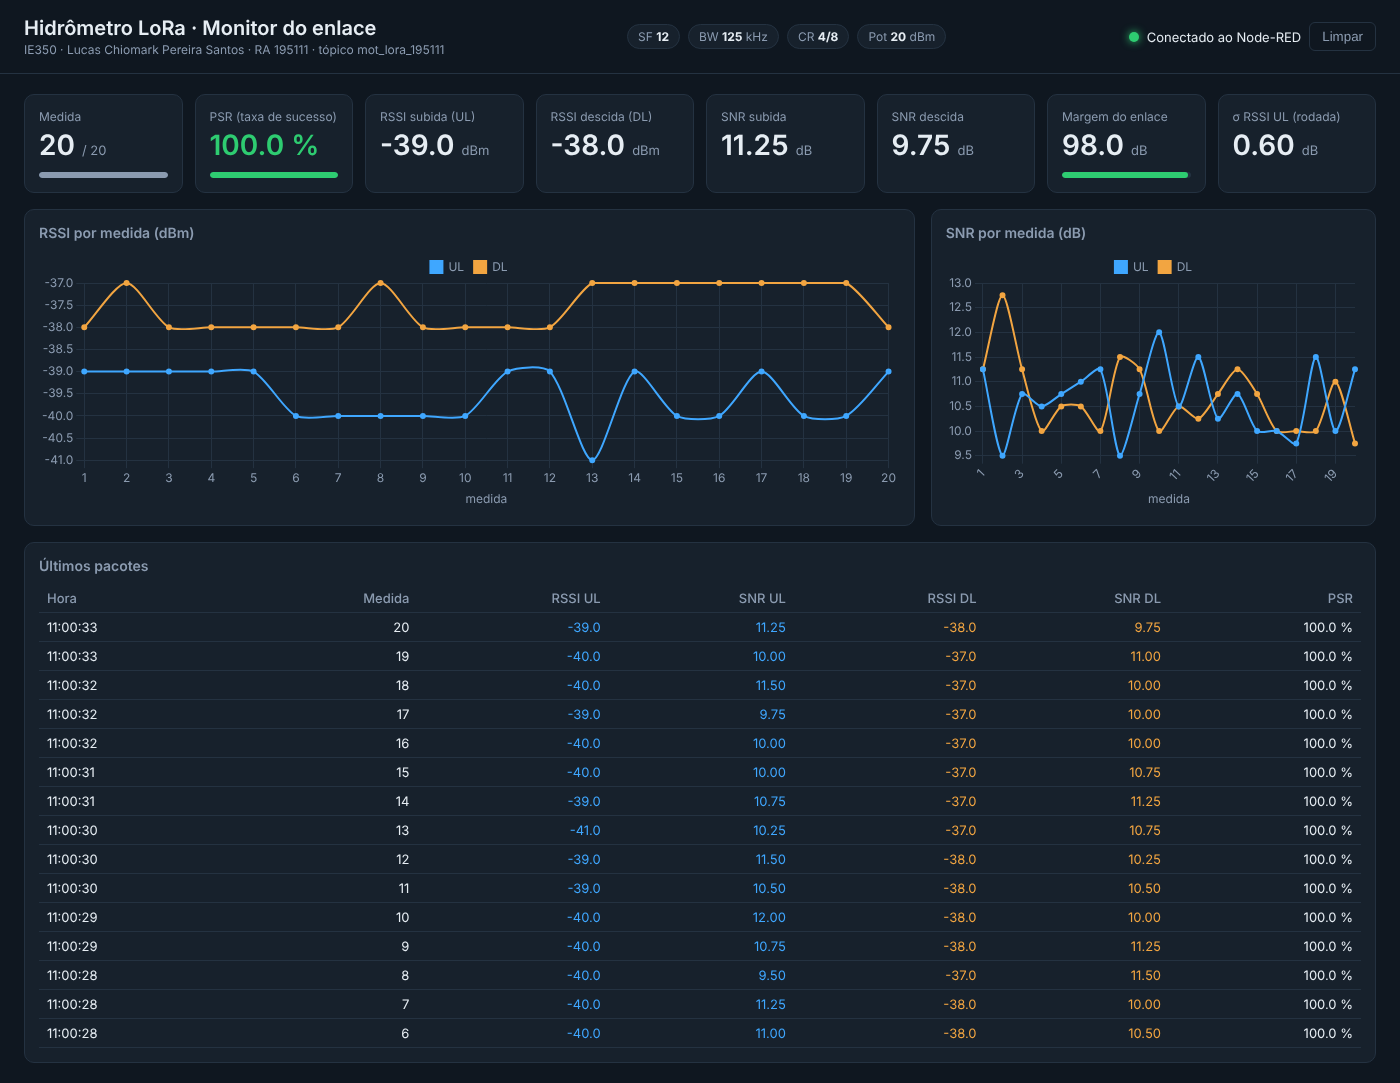
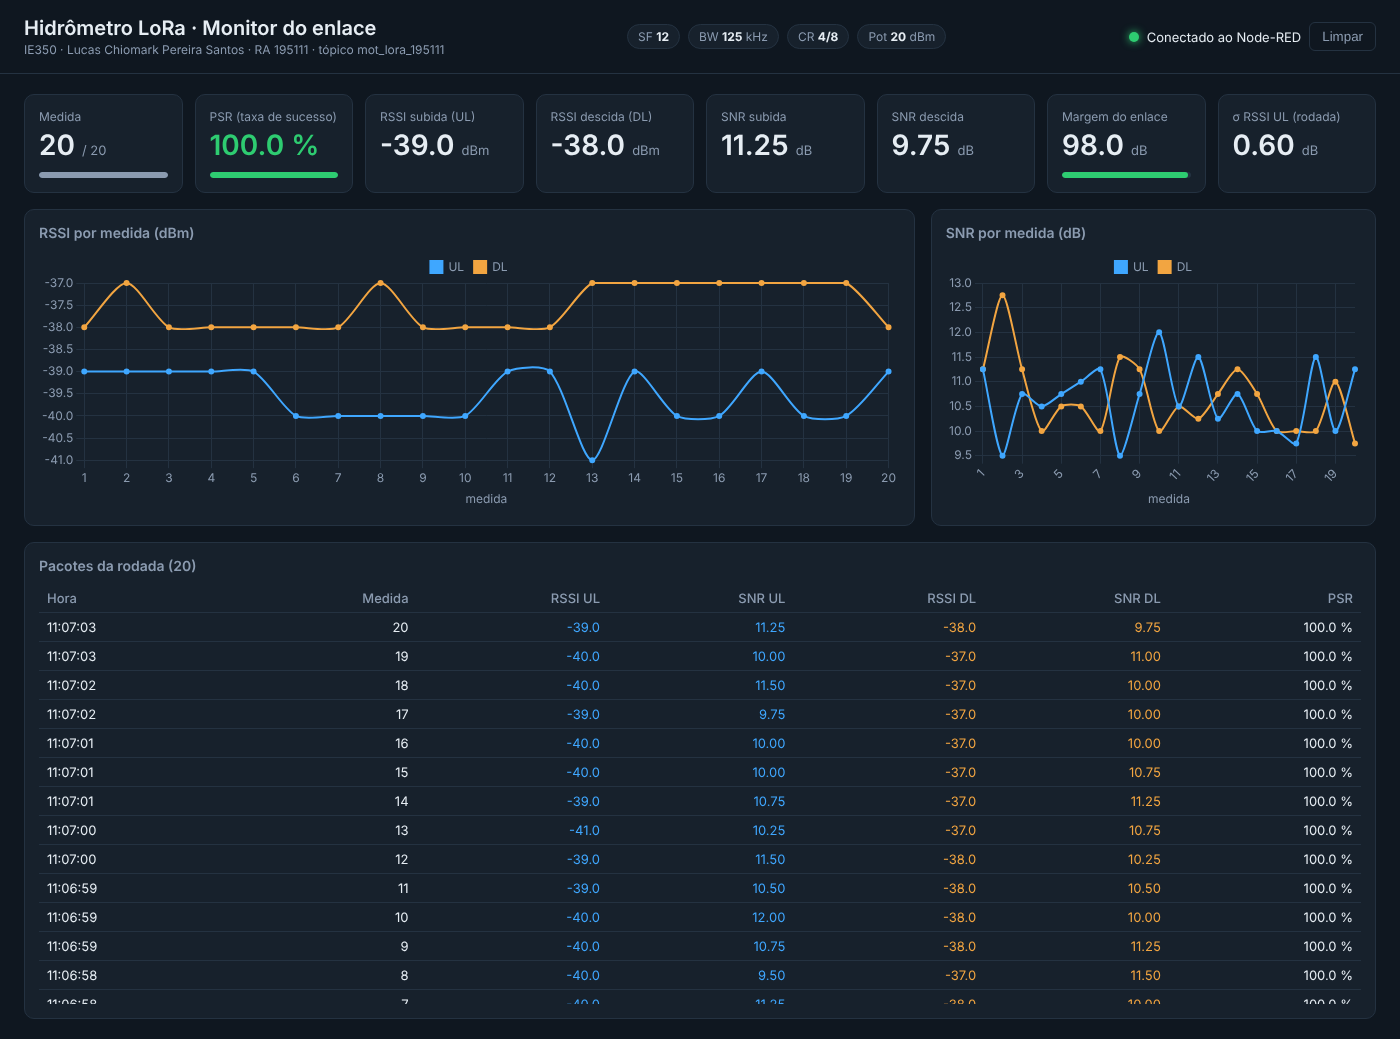
Painel Node-RED: tabela com todos os pacotes da rodada

diff --git a/gerencia/node-red/painel.html b/gerencia/node-red/painel.html
@@ -33,6 +33,8 @@
   .card { background:var(--card); border:1px solid var(--borda); border-radius:10px; padding:14px; }
   .card h2 { font-size:14px; margin:0 0 10px; font-weight:600; color:var(--sub); }
   .alto { height:260px; }
+  .rolagem { max-height:420px; overflow-y:auto; }
+  thead th { position:sticky; top:0; background:var(--card); }
   table { width:100%; border-collapse:collapse; font-size:13px; }
   th, td { padding:6px 8px; text-align:right; border-bottom:1px solid var(--borda); }
   th { color:var(--sub); font-weight:500; } th:first-child, td:first-child { text-align:left; }
@@ -76,9 +78,9 @@
   </section>
 
   <section class="card">
-    <h2>Últimos pacotes</h2>
-    <table><thead><tr><th>Hora</th><th>Medida</th><th>RSSI UL</th><th>SNR UL</th><th>RSSI DL</th><th>SNR DL</th><th>PSR</th></tr></thead>
-      <tbody id="tab"></tbody></table>
+    <h2>Pacotes da rodada (<span id="n-pac">0</span>)</h2>
+    <div class="rolagem"><table><thead><tr><th>Hora</th><th>Medida</th><th>RSSI UL</th><th>SNR UL</th><th>RSSI DL</th><th>SNR DL</th><th>PSR</th></tr></thead>
+      <tbody id="tab"></tbody></table></div>
   </section>
 </main>
 
@@ -111,7 +113,7 @@ function desvio(a) {
 function limpar() {
   rssiUl = [];
   for (const g of [gRssi, gSnr]) { g.data.labels = []; g.data.datasets.forEach(d => d.data = []); g.update(); }
-  $("tab").innerHTML = "";
+  $("tab").innerHTML = ""; $("n-pac").textContent = 0;
   ["k-psr","k-rul","k-rdl","k-sul","k-sdl","k-mar","k-sig"].forEach(id => $(id).textContent = "–");
 }
 $("limpar").onclick = limpar;
@@ -151,7 +153,7 @@ function trataUL(p) {
   tr.innerHTML = `<td>${hora}</td><td>${p.medida}</td><td class="ul">${fmt(p.rssi_ul)}</td><td class="ul">${fmt(p.snr_ul,2)}</td>` +
                  `<td class="dl">${fmt(p.rssi_dl)}</td><td class="dl">${fmt(p.snr_dl,2)}</td><td>${fmt(p.psr)} %</td>`;
   $("tab").prepend(tr);
-  while ($("tab").children.length > 15) $("tab").lastChild.remove();
+  $("n-pac").textContent = $("tab").children.length;
 }
 
 // ---------- WebSocket do Node-RED ----------
